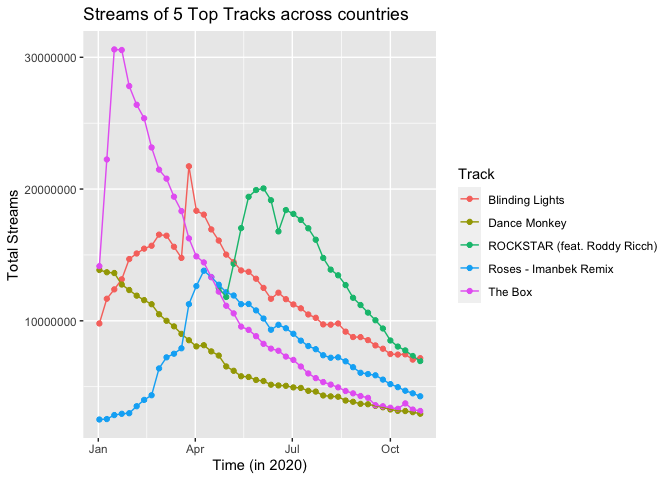
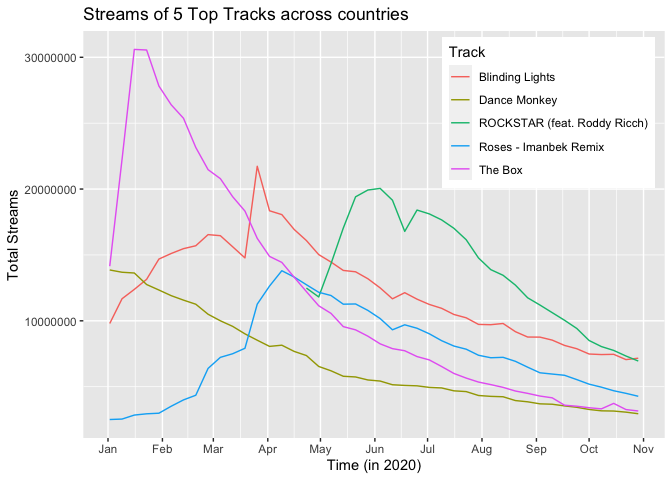
add title and short description

diff --git a/rmd_assignments/W8_WebScraping/W8_WebScraping.md b/rmd_assignments/W8_WebScraping/W8_WebScraping.md
@@ -3,6 +3,12 @@ library(pacman)
 pacman::p_load(tidyverse, rvest, magrittr, scales, knitr, lubridate, tibble, gdata)
 ```
 
+# Week 8: Webscraping
+
+I decided to scrape some data from [Spotify
+Charts](https://spotifycharts.com/). For this, I used this
+[Tutorial](https://datacritics.com/2018/03/20/scrape-it-yourself-spotify-charts/).
+
 ## 1\. Defining urls to scrape from
 
 ``` r
@@ -213,9 +219,11 @@ data %>%
   filter(track == "Roses - Imanbek Remix" | track == "The Box" | track == "Blinding Lights" | track == "ROCKSTAR (feat. Roddy Ricch)" | track == "Dance Monkey") %>%
   group_by(track, date) %>% 
   summarise(total = sum(streams), .groups = "drop_last") %>%
-  ggplot(aes(y = total, x = date, color = track)) +
-    geom_point() +
+  ggplot(aes(y = total, x = date, color = track, group = track)) +
+    #geom_point() +
     geom_line() +
+    scale_x_date(date_breaks = "1 month", date_labels = "%b") +
+    theme(legend.position = c(0.8, 0.8)) +
     labs(x = "Time (in 2020)", y = "Total Streams", color = "Track", title = "Streams of 5 Top Tracks across countries")
 ```
 
